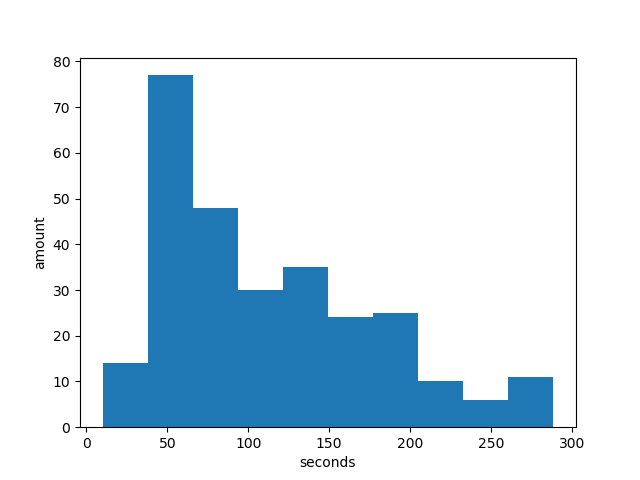
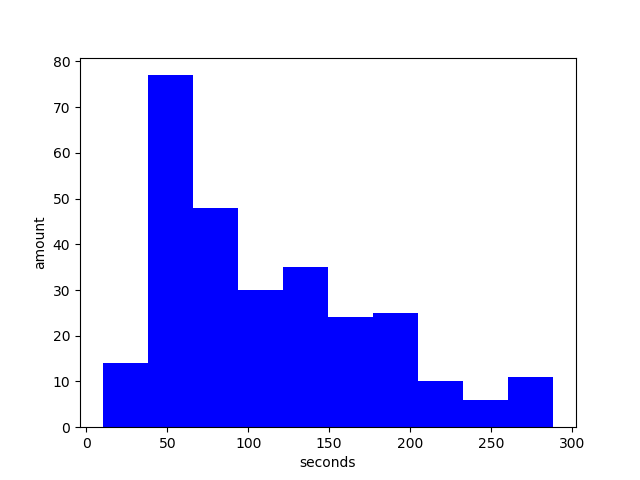
color change

Changed region(s): [[0.1562, 0.1562, 0.875, 0.9062]]

diff --git a/analyze.py b/analyze.py
@@ -208,7 +208,7 @@ def plot_box_hist(numbers, prefix):
         plt.clf()
         plt.ylabel("amount")
         plt.xlabel("seconds")
-        plt.hist(numbers)
+        plt.hist(numbers, color='b')
         plt.savefig(prefix+'_histogram.png')
     except ImportError:
         print("[warning] For data visualization, matplotlib is required",
